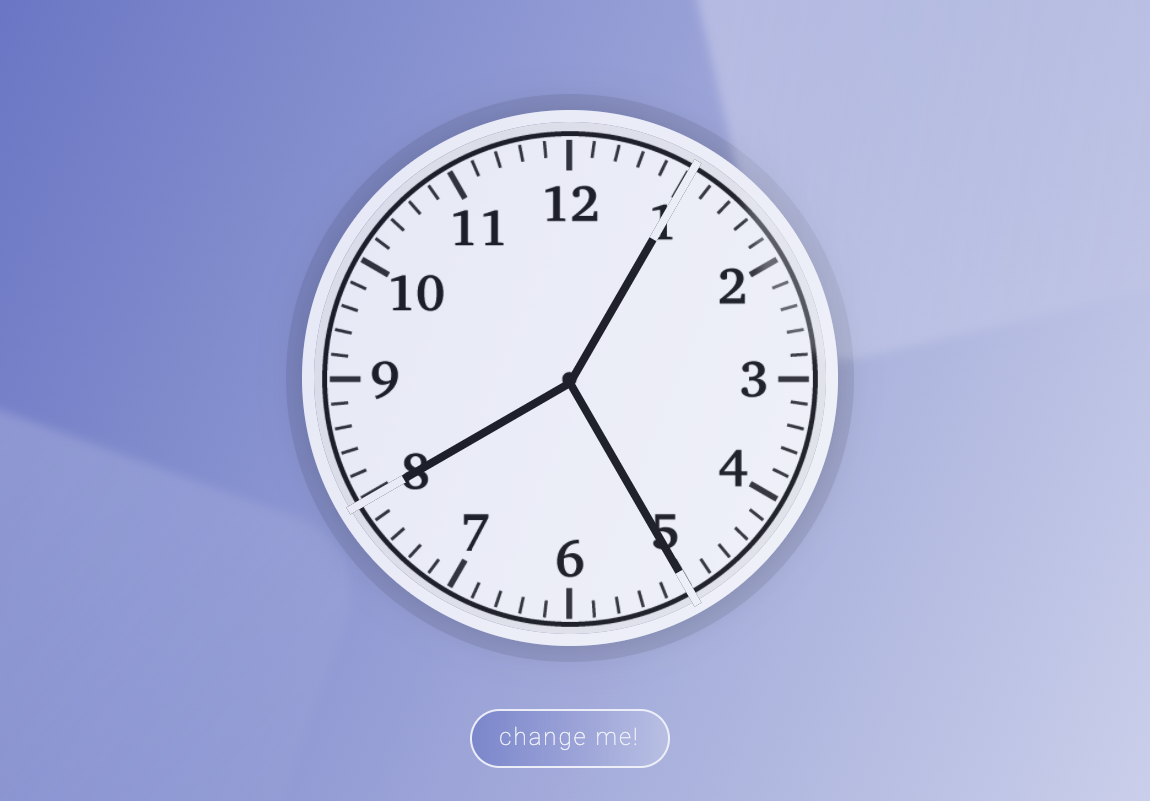
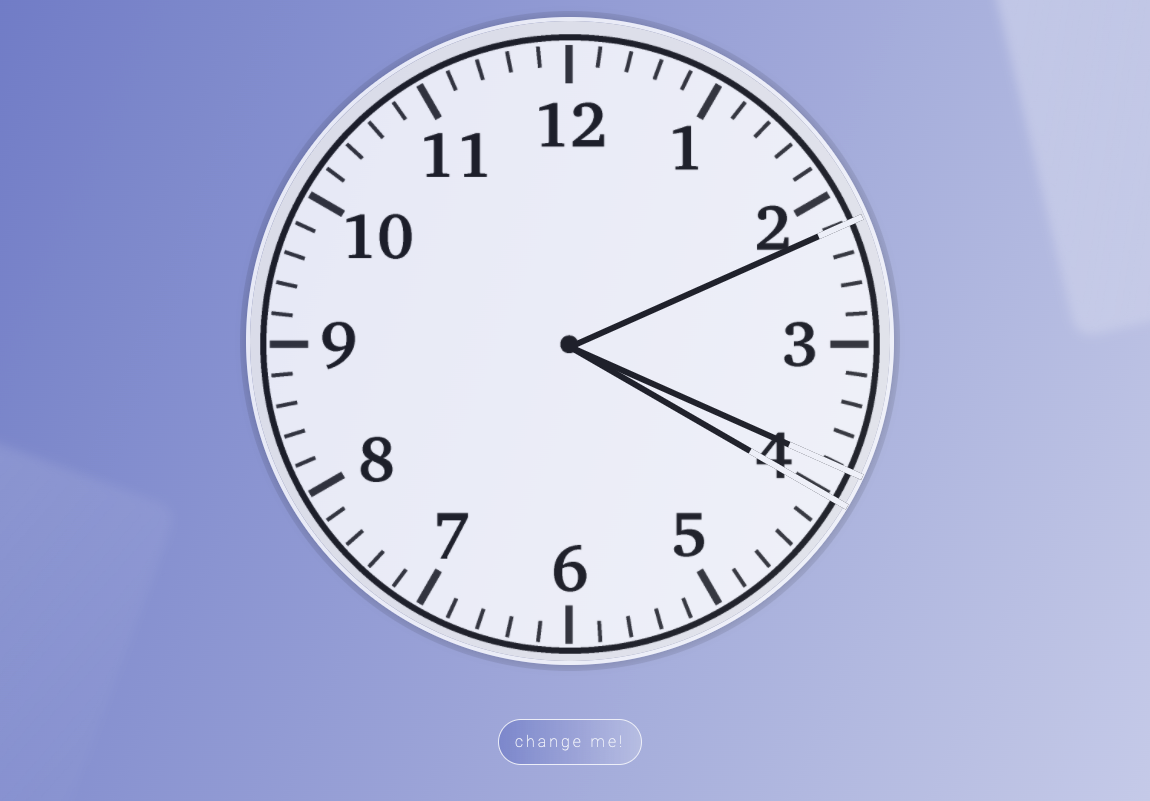
Change scale.

diff --git a/style.css b/style.css
@@ -31,23 +31,24 @@ body {
 .clock {
     position: relative;
 
-    width: 4rem;
-    height: 4rem;
-    padding: 2rem;
-    border: 3px solid white;
+    width: 20rem;
+    height: 20rem;
+    padding: 10rem;
+    border: 4px solid white;
     border-radius: 50%;
 
 
 
     box-shadow:
-        0 0 0px 4px rgba(0, 0, 0, 0.1),
-        inset 0 0 0 3px #EFEFEF,
-        inset 0 0 2px black,
+        0 0 0px 6px rgba(0, 0, 0, 0.1),
+        inset 0 0 0 20px #EFEFEF,
+        inset 0 0 10px black,
         0 0 10px rgba(0, 0, 0, 0.2);
 
     transition: all 0.8s;
 
     transform-style: preserve-3d;
+
 
 }
 
@@ -67,7 +68,7 @@ body {
     background-position: center;
     background-repeat: no-repeat;
 
-    transform: translateY(-1px);
+    transform: translateY(-3px);
 
 }
 
@@ -75,7 +76,7 @@ body {
     position: absolute;
     top: 50%;
 
-    height: 2px;
+    height: 6px;
     width: 50%;
 
     background-color: black;
@@ -119,10 +120,8 @@ body {
 .change-clock-type {
     position: absolute;
 
-    height: 4%;
-    width: 45px;
-    bottom: 10%;
-    padding: 2px;
+    bottom: 4rem;
+    padding: 1rem;
 
     background: linear-gradient(90deg, rgba(88, 105, 192, 0.6) 0%, rgba(255, 255, 255, 0.225) 100%);
     border-radius: 40px;
@@ -133,18 +132,18 @@ body {
     font-family: 'Roboto', sans-serif;
     color: white;
     font-weight: 100;
-    font-size: 6px;
-    line-height: 9px;
-    letter-spacing: 0.5px;
+    font-size: 16px;
+    line-height: 12px;
+    letter-spacing: 3px;
 
 
     transition: .3s;
 }
 
 .change-clock-type:hover {
-    font-size: 6.5px;
+    font-size: 20px;
 
-    box-shadow: 0px 1px 1px rgba(0, 0, 0, .3);
+    box-shadow: 0px 6px 6px rgba(0, 0, 0, .3);
 
     cursor: pointer;
 
@@ -159,15 +158,17 @@ body {
     position: absolute;
 
     background: linear-gradient(99.6deg, #FFFFFF 0%, rgba(255, 255, 255, 0.2) 101.05%);
-    opacity: 0.6;
+    opacity: 0.8;
     box-shadow: -6px 6px 3px rgba(0, 0, 0, 0.9);
-    border-radius: 10px;
+    border-radius: 20px;
+
 }
 
 .flap-clock-face {
+    padding: 1rem 2rem;
+
     display: flex;
     flex-direction: row;
-    align-self: center;
 
     font-family: 'Roboto', sans-serif;
     font-weight: 500;
@@ -177,12 +178,13 @@ body {
     -moz-background-clip: text;
     background-clip: text;
 
-    border-radius: 10px;
+    border-radius: 20px;
 
 
-    background-color: hsla(0, 0%, 50%, 0.7);
-    border: 3px solid;
-    border-color: color rgba(255, 255, 255, 0.01);
+    background-color: hsla(0, 0%, 50%, 0.8);
+    border: 12px solid rgba(0, 0, 0, 0.2);
+    box-sizing: border-box;
+    filter: drop-shadow(-6px 6px 6px rgba(68, 68, 68, 0.6));
 
     box-sizing: content-box;
 
@@ -192,21 +194,24 @@ body {
 
 .flap {
 
-    margin: 4px 4px;
-    padding: 4px 4px;
-
-    border: 2px solid #FFFFFF;
-    box-sizing: border-box;
-    filter: drop-shadow(-.5px .5px .5px rgba(0, 0, 0, 0.9));
-    border-radius: 5px;
+    margin: .5rem 1rem;
+    padding: .5rem 1rem;
 
 
-    color: rgba(0, 0, 0, 0.6);
+    font-size: 120px;
+
+    border: .8rem solid #FFFFFF;
+    border-radius: 25px;
+
+
+    color: rgba(0, 0, 0, 0.9);
 }
 
 .sign {
     margin: 4px 0px;
-    padding: 4px 0px;
+    padding: 12px 0px;
+
+    font-size: 120px;
 
     color: #8A8FA8;
 
@@ -230,8 +235,6 @@ body {
 }
 
 
-
-
 .display-clock {
     opacity: 0;
     transition: .9s;
@@ -243,7 +246,7 @@ body {
     position: fixed;
 
     background: linear-gradient(111.35deg, rgba(255, 255, 255, 0.4) 3.69%, rgba(255, 255, 255, 0) 95.58%);
-    filter: blur(1.2px);
+    filter: blur(5px);
     border-radius: 20px;
 
     transform: rotate(70deg);
